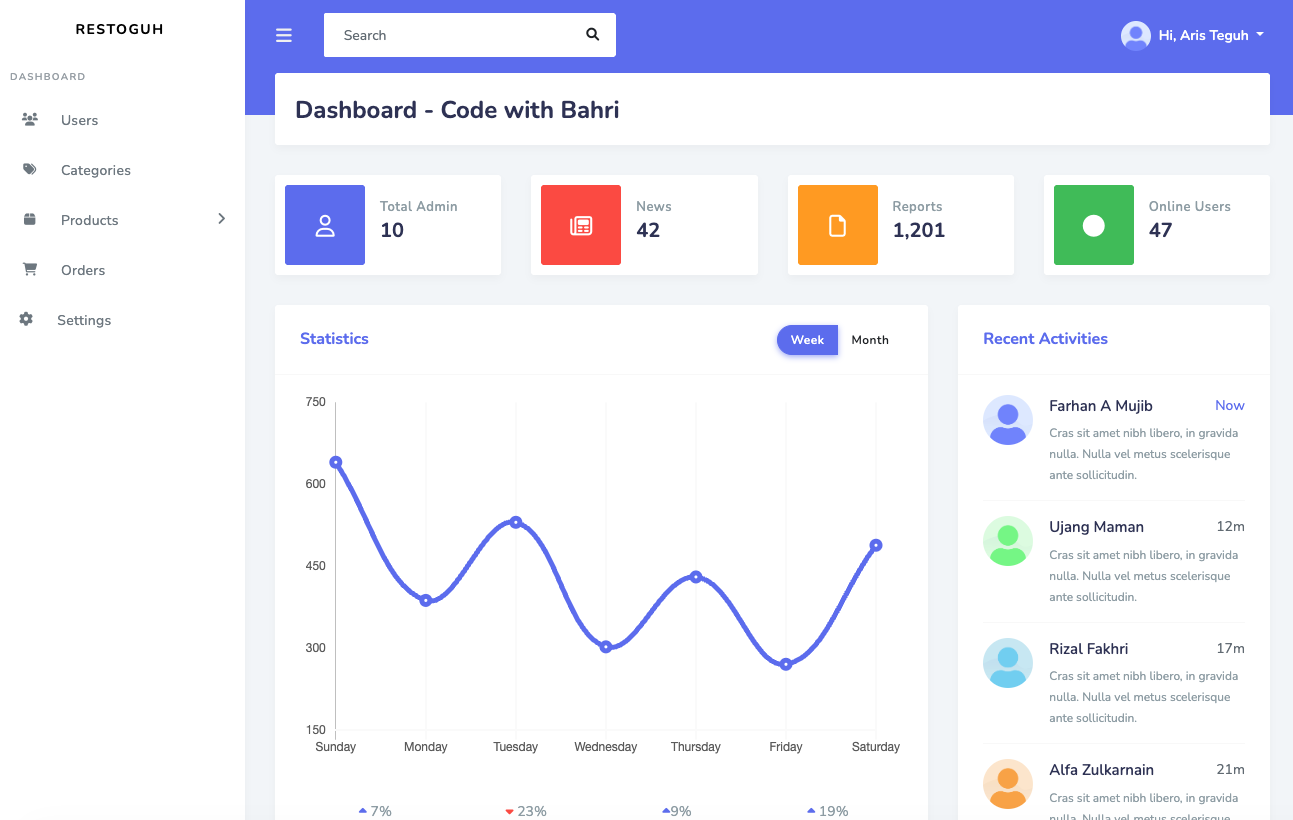
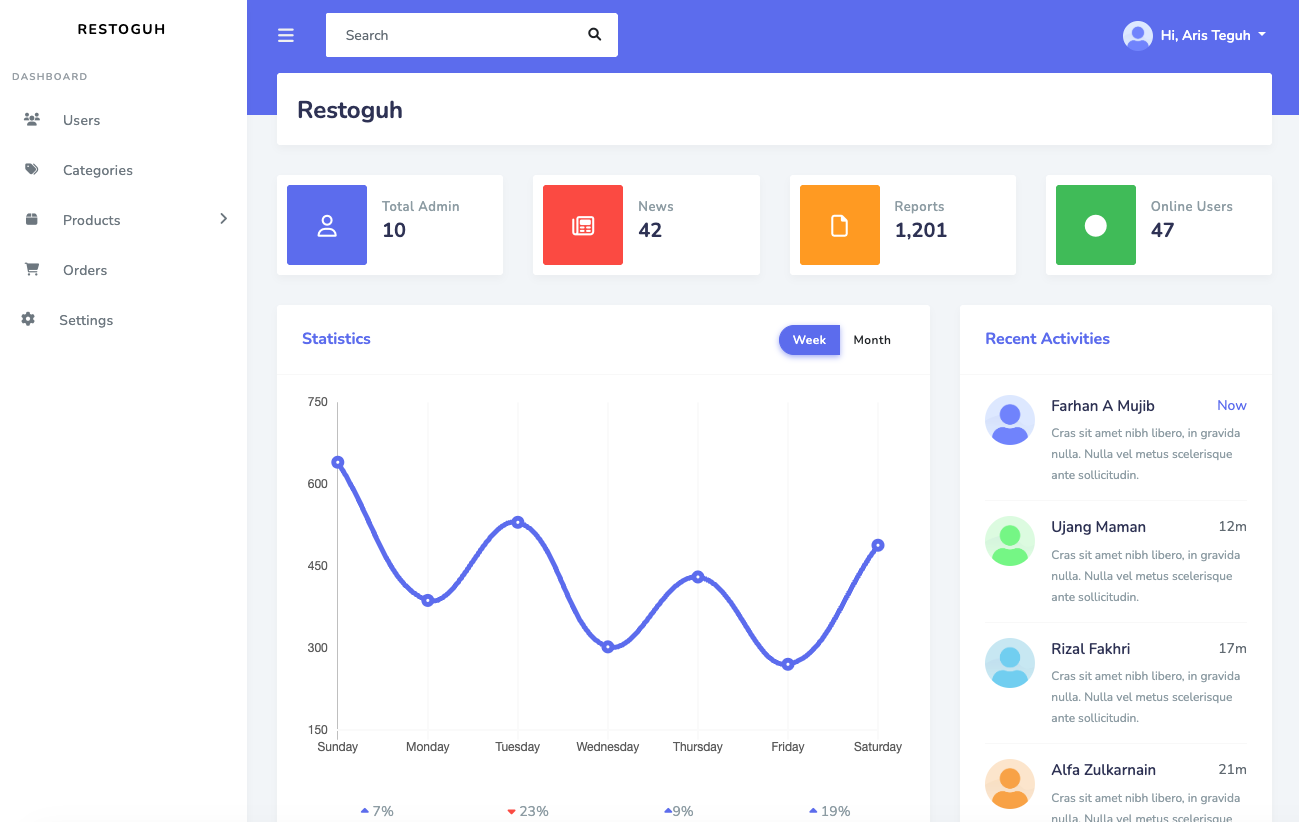
add readme md ss

diff --git a/routes/web.php b/routes/web.php
@@ -21,6 +21,15 @@ Route::get('/minio-test', function () {
     return 'OK';
 });
 
+Route::post('/logout', function (Request $request) {
+    Auth::logout();
+
+    $request->session()->invalidate();
+    $request->session()->regenerateToken();
+
+    return redirect()->route('login');
+})->name('logout');
+
 
 
 Route::get('/test-upload', function () {

diff --git a/resources/views/pages/dashboard.blade.php b/resources/views/pages/dashboard.blade.php
@@ -12,7 +12,7 @@
     <div class="main-content">
         <section class="section">
             <div class="section-header">
-                <h1>Dashboard - Code with Bahri</h1>
+                <h1>Restoguh</h1>
             </div>
             <div class="row">
                 <div class="col-lg-3 col-md-6 col-sm-6 col-12">

diff --git a/resources/views/components/footer.blade.php b/resources/views/components/footer.blade.php
@@ -1,6 +1,6 @@
 <footer class="main-footer">
     <div class="footer-left">
-        Copyright &copy; 2024 <div class="bullet"></div> Code with Bahri
+        Copyright &copy; 2024 <div class="bullet"></div>Restoguh
     </div>
     <div class="footer-right">
         2.3.0

diff --git a/README.md b/README.md
@@ -99,3 +99,25 @@ AWS_USE_PATH_STYLE_ENDPOINT=true
 <p align="center">
   <img src="screenshoots/product.png" width="700"/>
 </p>
+
+<h3>Enable Auth</h3>
+<p align="center">
+  <img src="screenshoots/enable_auth.png" width="700"/>
+</p>
+
+<h3>Setup Auth</h3>
+<p align="center">
+  <img src="screenshoots/setup_auth.png" width="700"/>
+</p>
+
+<h3>2 FA Login</h3>
+<p align="center">
+  <img src="screenshoots/2fa_login.png" width="700"/>
+</p>
+
+<h3>Verifikasi 2 FA Via Email</h3>
+<p align="center">
+  <img src="screenshoots/verifikasi_2fa_via_email.png" width="700"/>
+</p>
+
+
